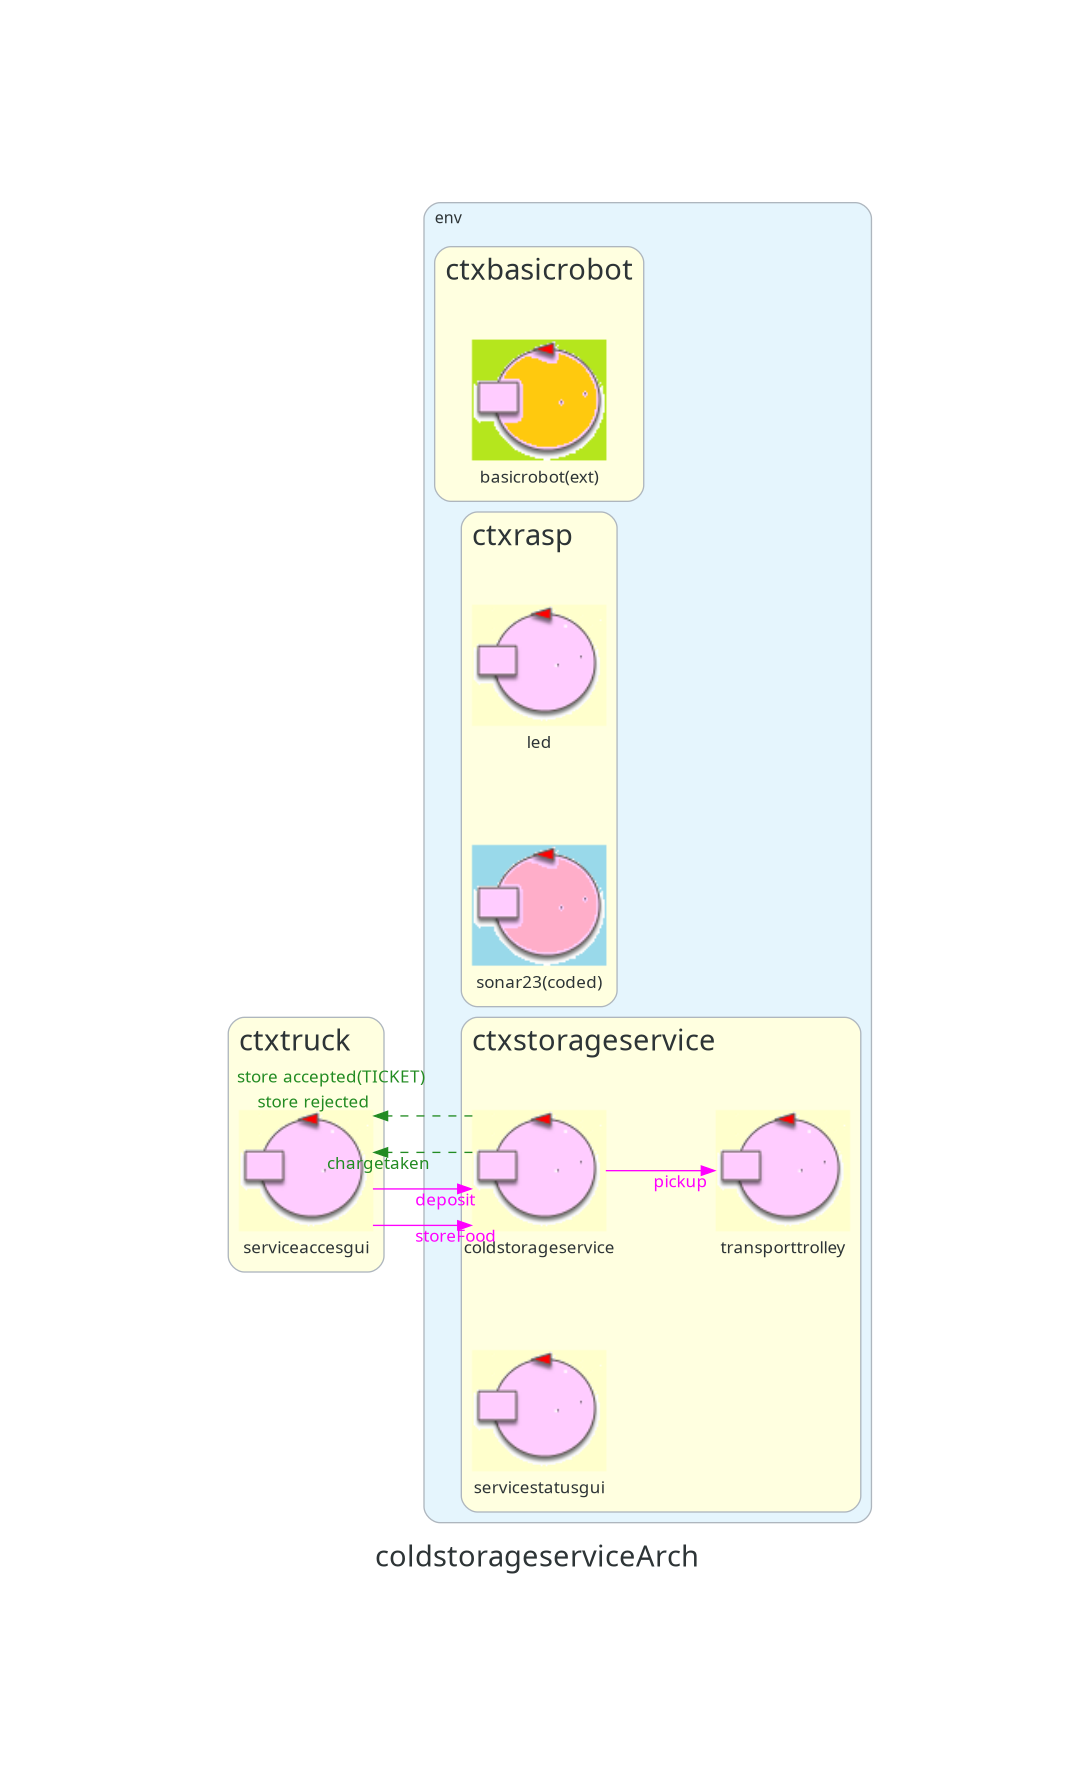
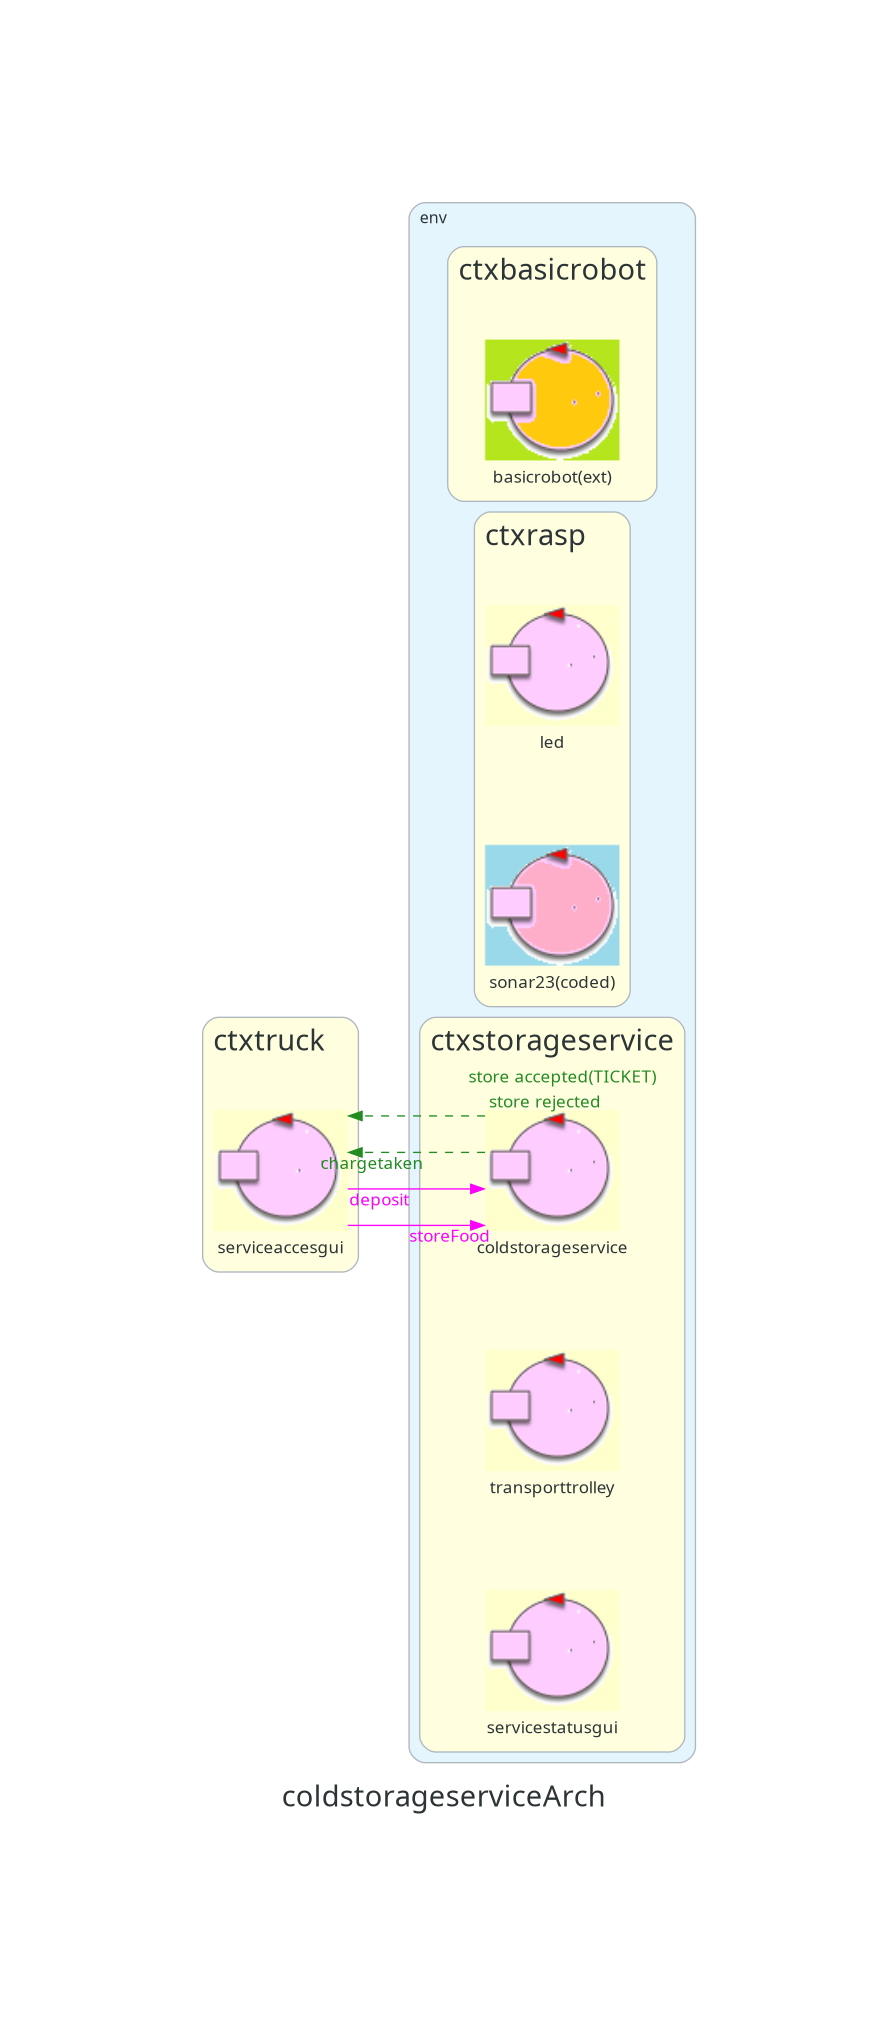
remove pickup

Changed region(s): [[0.2131, 0.0929, 0.8219, 0.8976]]

diff --git a/Sprint0Reviewed/userDocs/sprint0Reviewed.html b/Sprint0Reviewed/userDocs/sprint0Reviewed.html
@@ -132,7 +132,6 @@ Reply moverobotfailed : moverobotfailed(PLANDONE, PLANTODO)</span></pre></p></li
             <br>
             Il trasport trolley pu&ograve; essere modellato come modello Qak:
             <pre>
-Request pickup : pickup(_)
 Dispatch backhome : backhome(_)
 
 QActor transporttrolley context ctxstorageservice{
@@ -147,19 +146,16 @@ QActor transporttrolley context ctxstorageservice{
     State idle{
     	...
     }
-    Transition t0 whenRequest pickup -> pickingup
 
 
     State pickingup{
     	...
-        replyTo pickup with chargeTaken : chargeTaken(_)
     }
     Transition t0 whenMsg dropout -> droppingout
 
     State droppingout{
         ...
     }Transition t0 whenMsg backhome -> backhome
-                        whenRequest pickup -> pickingup
 
     State backhome{
         ...
@@ -190,7 +186,6 @@ QActor transporttrolley context ctxstorageservice{
 <!--        </ul>-->
         Considerando che il driver deve rimuovere il suo furgone il pi&ugrave; velocemente possibile dalla <kc>Indoor</kc>, le due fasi possono essere formalizzate rispettivamente attraverso una<kc>Request-response Qak</kc> e un <kc>Dispatch</kc>:
         <pre>
-Request pickup : pickup(_)
         </pre>
         <!--------------SONAR------------------------->
         <h4>Sonar</h4>
@@ -391,7 +386,6 @@ QActor coldstorageservice context ctxstorageservice {
 
     State acceptRequest{
         replyTo storeFood with storeAccepted : storeAccepted(_)
-        request transporttrolley -m pickup : pickup(TICKETID)
     }Transition t0 whenReply chargeTaken -> idle
 
 }

diff --git a/Sprint0Reviewed/MyArch_coldstorageservice.py b/Sprint0Reviewed/MyArch_coldstorageservice.py
@@ -31,7 +31,6 @@ with Diagram('coldstorageserviceArch', show=False, outformat='png', graph_attr=g
           transporttrolley=Custom('transporttrolley','./qakicons/symActorSmall.png')
           servicestatusgui=Custom('servicestatusgui','./qakicons/symActorSmall.png')
      coldstorageservice >> Edge(color='forestgreen', style='dashed', xlabel='chargetaken', fontcolor='forestgreen') >> serviceaccesgui
-     coldstorageservice >> Edge(color='magenta', style='solid', xlabel='pickup', fontcolor='magenta') >> transporttrolley
      serviceaccesgui >> Edge(color='magenta', style='solid', xlabel='storeFood', fontcolor='magenta') >> coldstorageservice
      serviceaccesgui >> Edge(color='magenta', style='solid', xlabel='deposit', fontcolor='magenta') >> coldstorageservice
      coldstorageservice >> Edge(color='forestgreen', style='dashed', xlabel='\t store accepted(TICKET) \n store rejected', fontcolor='forestgreen') >> serviceaccesgui
